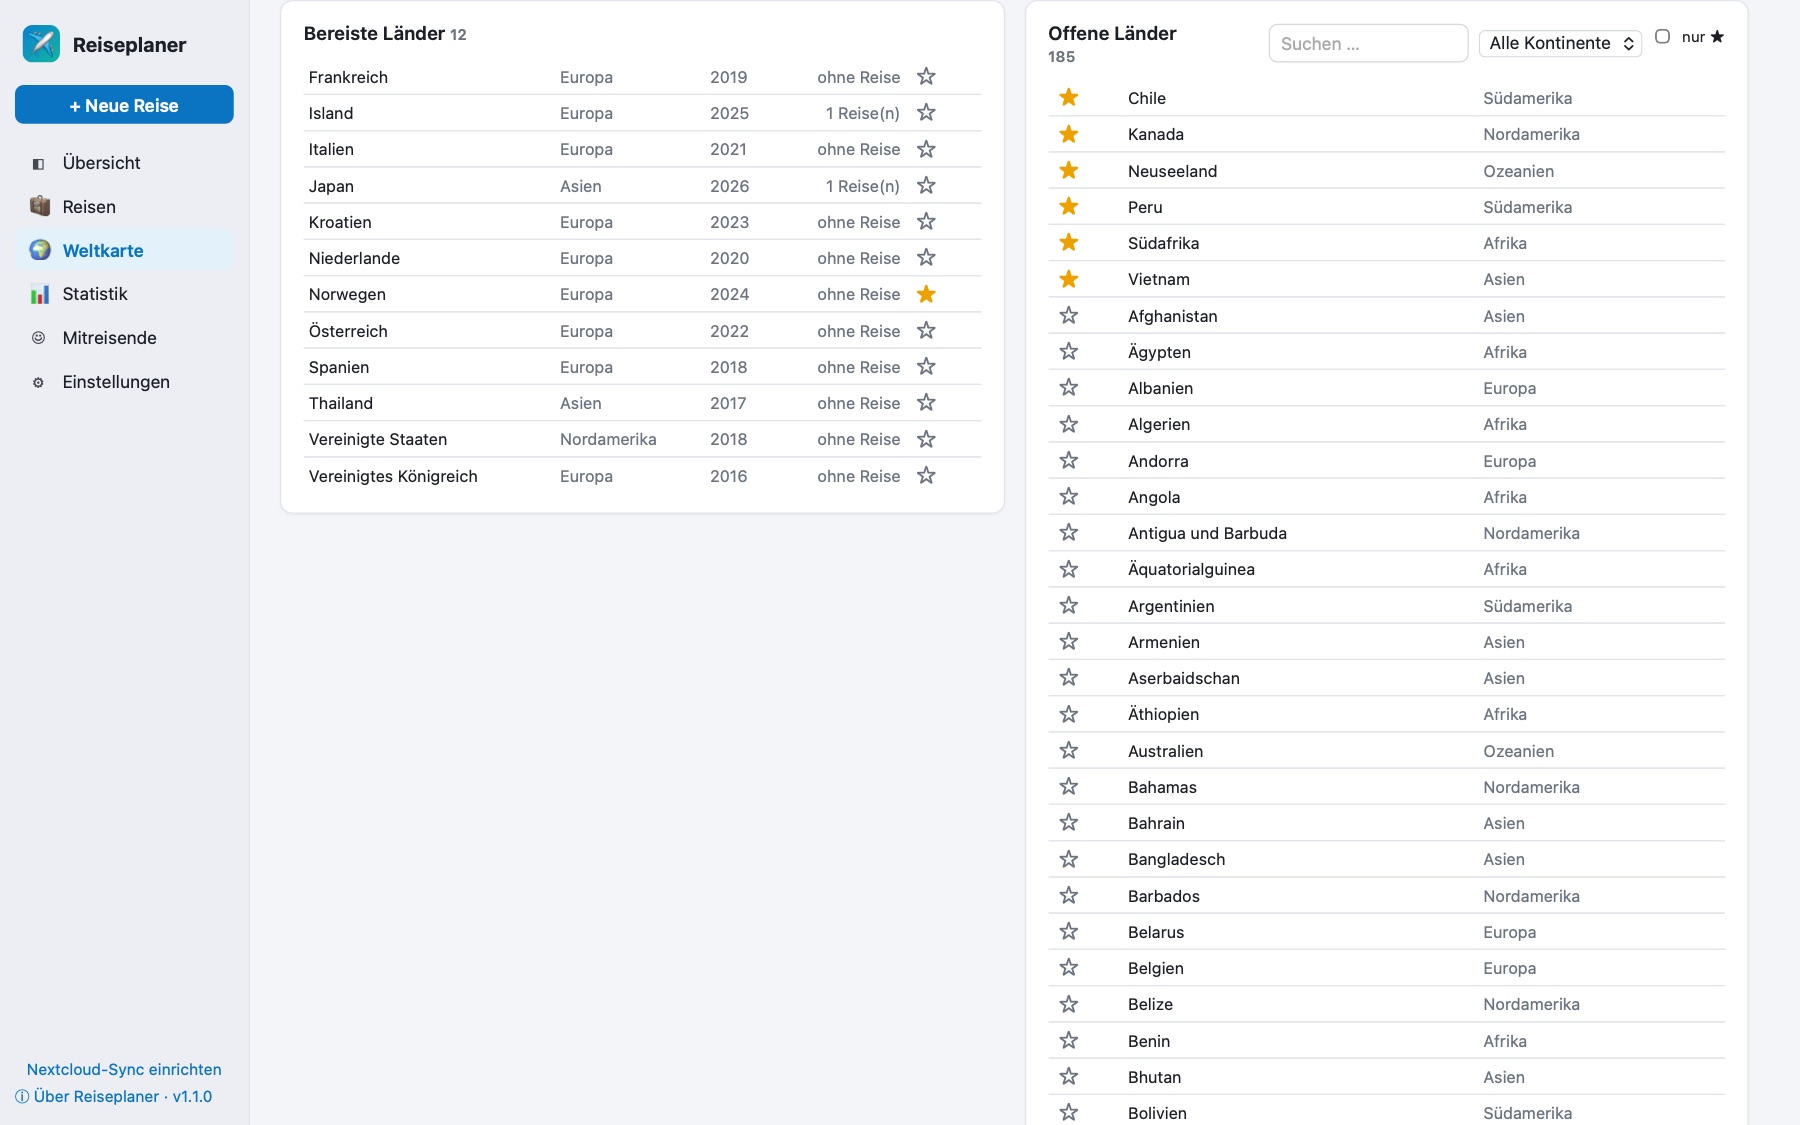
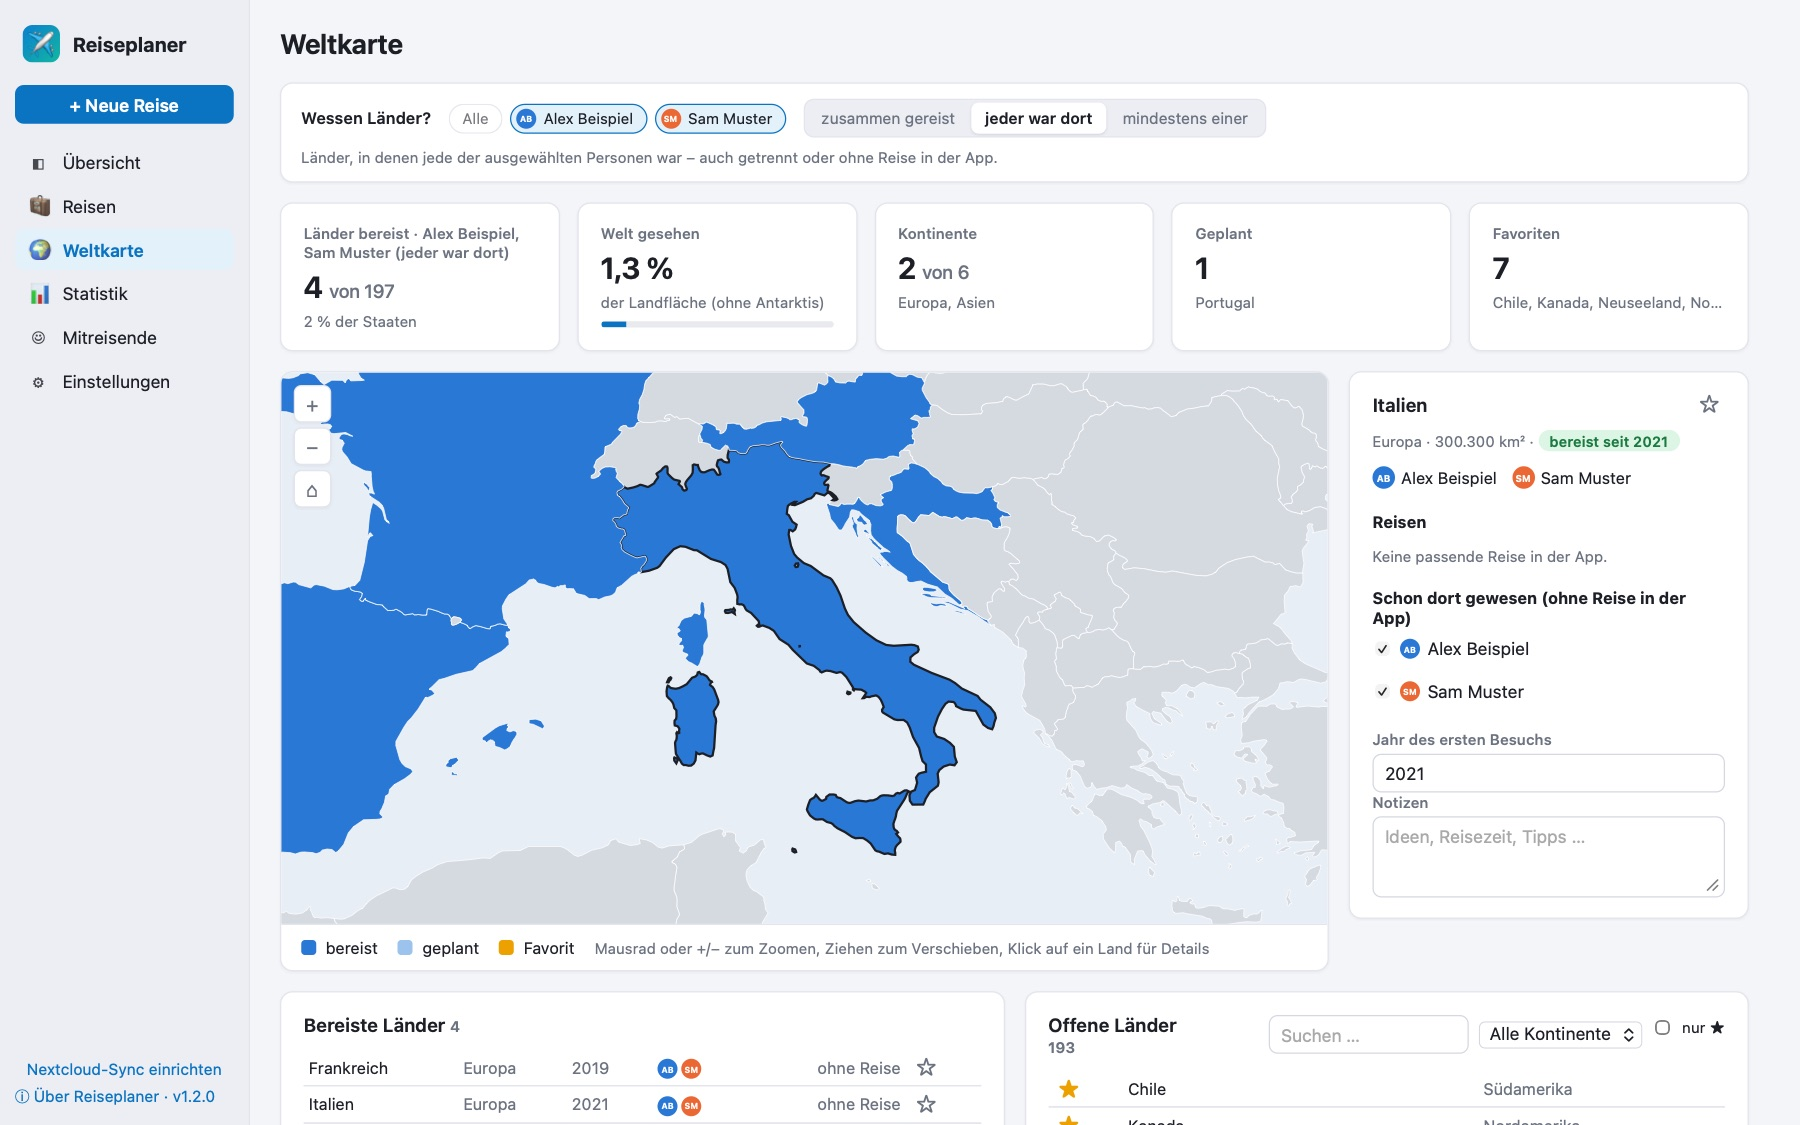
README: Weltkarte pro Person und Gruppe, neue Screenshots

diff --git a/README.md b/README.md
@@ -111,9 +111,13 @@ Nextcloud zwischen mehreren Rechnern oder mit Mitreisenden ab.
 - Alle Länder, die du bereist hast, farbig auf einer Weltkarte; geplante Reisen und Wunschziele in eigenen Farben
 - Zoomen mit Mausrad, Trackpad oder +/−, verschieben durch Ziehen; Klick auf ein Land zoomt hinein und zeigt die
   Reisen dorthin
-- Länder früherer Reisen ohne eigene Reise in der App markieren („schon dort gewesen“, mit Jahr) und Notizen je Land
+- **Pro Person oder als Gruppe**: alle zusammen, eine Person oder mehrere – bei mehreren wahlweise *zusammen gereist*
+  (gemeinsame Reise), *jeder war dort* (auch getrennt) oder *mindestens einer*
+- Länder früherer Reisen ohne eigene Reise in der App **pro Person abhaken** („schon dort gewesen“, mit Jahr) und
+  Notizen je Land
 - **Offene Länder**: alle noch nicht besuchten Staaten, filterbar nach Kontinent, mit ★ als Favorit auf die Wunschliste
-- Kennzahlen: Länder (von 197 Staaten), Kontinente, geplante Länder, Favoriten, Fortschritt je Kontinent
+- Kennzahlen: Länder (von 197 Staaten), **Welt gesehen in Prozent der Landfläche** (ohne Antarktis), Kontinente,
+  geplante Länder, Favoriten, Fortschritt je Kontinent
 - Läuft komplett offline: Die Ländergrenzen sind in der App enthalten, es werden keine Kartenkacheln geladen.
 
 ### Dokumente
@@ -129,8 +133,8 @@ Nextcloud zwischen mehreren Rechnern oder mit Mitreisenden ab.
 | <img src="docs/screenshots/expenses.jpg" alt="Ausgaben: Schnellerfassung, Liste nach Tagen in Yen und Euro, Budget und Wechselkurse" width="440"> | <img src="docs/screenshots/checklist.jpg" alt="Aufgaben vor der Reise und Packliste mit Abschnitten" width="440"> |
 | **Auswertung** | **Zahlungsmittel und Tag für Tag** |
 | <img src="docs/screenshots/analysis.jpg" alt="Auswertung: Kennzahlen, Ausgaben pro Tag nach Kategorie, Tabelle nach Kategorie" width="440"> | <img src="docs/screenshots/analysis-days.jpg" alt="Auswertung nach Zahlungsmittel und Tabelle Tag für Tag mit dem Anteil jeder Person" width="440"> |
-| **Weltkarte** | **Offene Länder und Favoriten** |
-| <img src="docs/screenshots/world.jpg" alt="Weltkarte mit bereisten, geplanten und gewünschten Ländern, Fortschritt je Kontinent" width="440"> | <img src="docs/screenshots/world-lists.jpg" alt="Listen der bereisten und offenen Länder mit Favoriten-Stern" width="440"> |
+| **Weltkarte** | **Weltkarte für eine Gruppe** |
+| <img src="docs/screenshots/world.jpg" alt="Weltkarte mit bereisten, geplanten und gewünschten Ländern, Welt gesehen in Prozent, Fortschritt je Kontinent" width="440"> | <img src="docs/screenshots/world-lists.jpg" alt="Gruppenansicht „jeder war dort“: Italien mit Häkchen pro Person, bereiste und offene Länder" width="440"> |
 | **Abrechnung** | **Statistik über alle Reisen** |
 | <img src="docs/screenshots/settlement.jpg" alt="Abrechnung: Salden und wer wem wie viel zahlt" width="440"> | <img src="docs/screenshots/statistics.jpg" alt="Statistik: Ausgaben pro Reise, nach Kategorie, Land, Zahlungsmittel und Jahr" width="440"> |
 
@@ -153,6 +157,10 @@ Personen, Buchungsnummern und Beträge in den Bildern sind erfunden.
   (An- und Abreisetag zählen mit). Ausgaben vor oder nach der Reise zählen zur Summe, nicht zum Durchschnitt.
 - **Pro Person und Tag** = Tagesdurchschnitt geteilt durch die Zahl der Mitreisenden (allein bzw. beim eigenen
   Anteil: 1). Die Spalten je Person in „Tag für Tag“ zeigen dagegen den tatsächlichen Anteil an den geteilten Ausgaben.
+- **Weltkarte**: Ein Land zählt für eine Person, wenn sie auf einer Reise dorthin eingetragen ist (Reisen ohne
+  Mitreisende zählen für „Das bin ich“) oder es von Hand abgehakt ist. Als bereist gilt eine Reise mit Status
+  „Gereist“ oder sobald sie begonnen hat; Ideen und Absagen zählen nicht. „Welt gesehen“ = Fläche der bereisten
+  Länder geteilt durch die Landfläche der Erde ohne Antarktis (aus den Kartendaten berechnet).
 - **Kurtaxe** = Betrag × Nächte bzw. Tage (× Personen, wenn pro Person); Tage = Nächte + 1. Ein Gesamtbetrag wird
   gleichmäßig auf die Tage von der Anreise bis zur Abreise verteilt. Die Personen ergeben sich aus „Aufgeteilt auf“
   bzw. den Mitreisenden oder werden eingetragen.
@@ -196,7 +204,7 @@ db/activities/<id>.json   Aktivitäten
 db/checklist/<id>.json    Aufgaben und Packliste
 db/expenses/<id>.json     Ausgaben
 db/payments/<id>.json     Ausgleichszahlungen zwischen Mitreisenden
-db/countries/<code>.json  Weltkarte: Favoriten, „schon dort gewesen“, Notizen je Land
+db/countries/<code>.json  Weltkarte: Favoriten, „schon dort gewesen“ je Person, Notizen je Land
 db/settings/settings.json Einstellungen und Vorlagen
 files/<reise>/…           Dokumente je Reise
 conflicts/                nur lokal: ältere Version bei Sync-Konflikten
